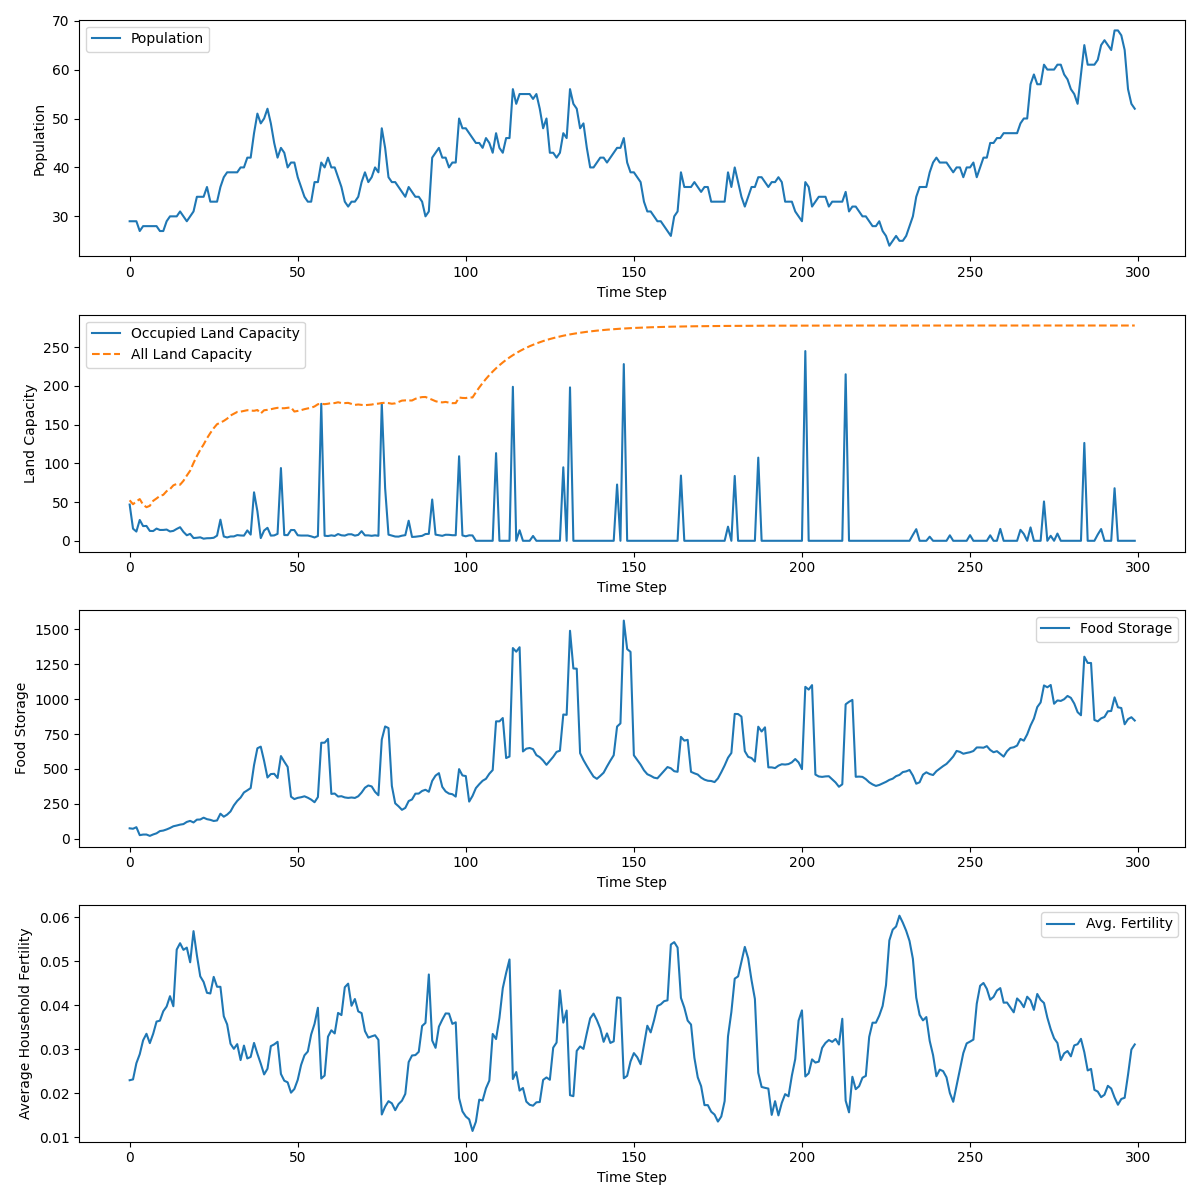
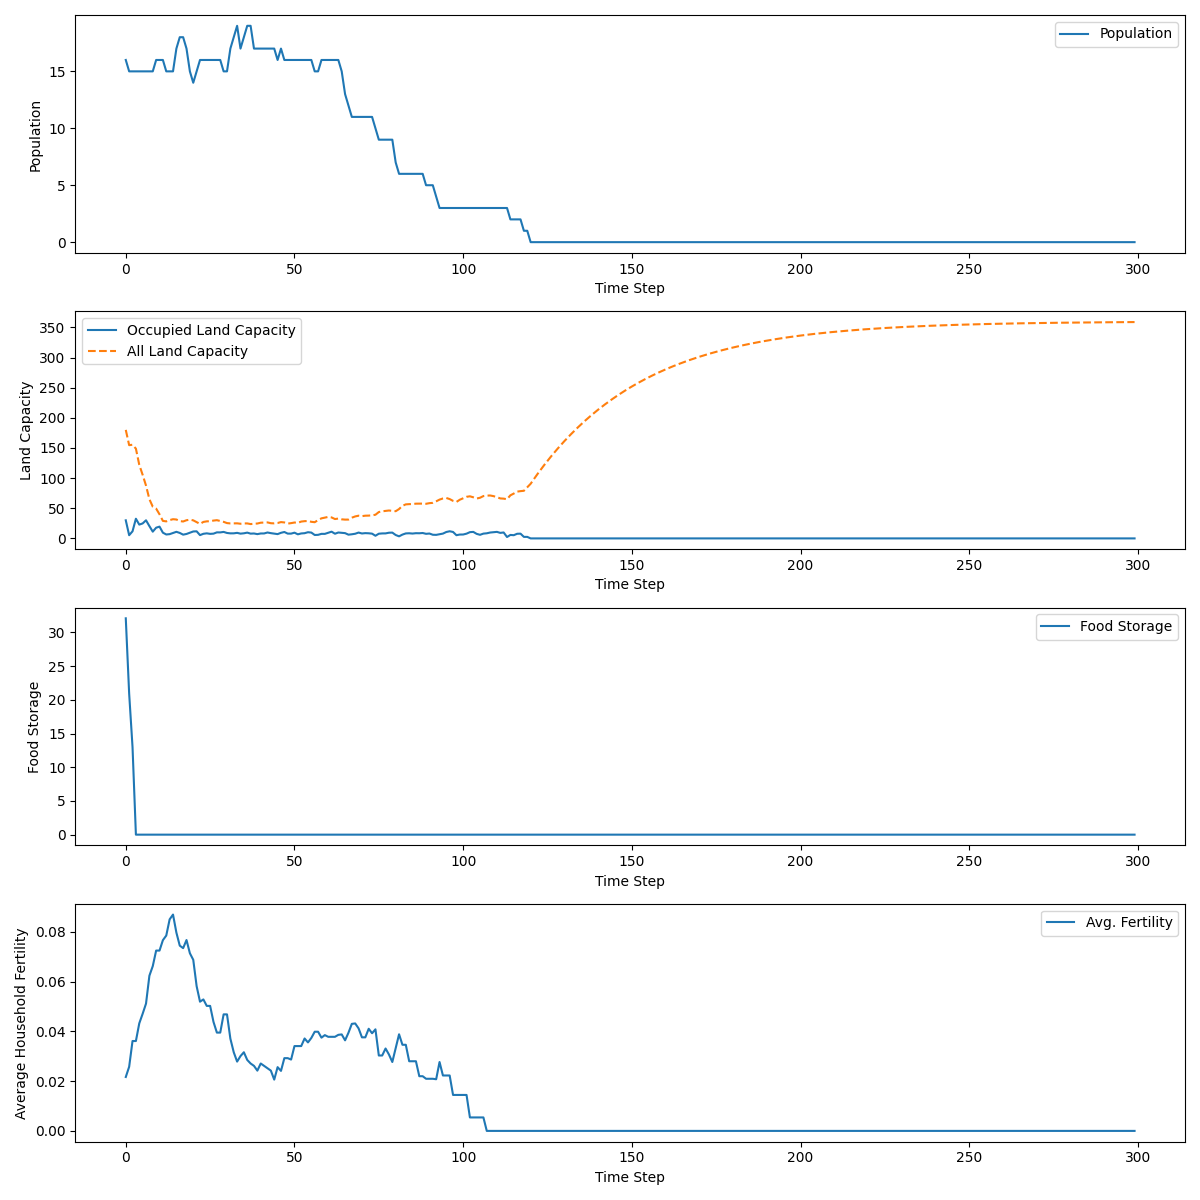
modified:   Plot.png 	modified:   __pycache__/agent.cpython-312.pyc 	modified:   __pycache__/household.cpython-312.pyc 	modified:   __pycache__/utils.cpython-312.pyc 	modified:   __pycache__/village.cpython-312.pyc 	modified:   agent.py 	modified:   household.py 	modified:   main.py 	modified:   tes

diff --git a/village.py b/village.py
@@ -47,23 +47,34 @@ class Village:
         self.luxury_goods_in_village = 50
 
 
-    def update_network_connectivity(self): 
+    def update_network_connectivity(self):
         """Updates connectivity based on trading and distance."""
-        for household_id, data in self.network.items():
+        valid_households = set(self.households)  # Precompute valid households
 
-            for other_id in self.network.keys():
-                id1 = self.get_household_by_id(household_id)
-                id2 = self.get_household_by_id(other_id)
-                if id1.location != id2.location:
-                    distance = self.get_distance(id1.location, id2.location)
-                    # print(other_id, type(other_id))
-                    # print(self.network[household_id]['connectivity'])
-                    self.network[household_id]['connectivity'][other_id] = max(0, 1/distance)
+        # Iterate over a copy of the network dictionary to avoid modifying it while iterating
+        for household_id in list(self.network.keys()):
+            if household_id in valid_households:
+                self.network[household.id]['luxury_goods'] = household.luxury_good_storage
+                household = self.get_household_by_id(household_id)
+                connectivity = self.network[household_id]['connectivity']
+
+                for other_id in list(connectivity.keys()):
+                    if other_id in valid_households:
+                        other_household = self.get_household_by_id(other_id)
+                        if household.location != other_household.location:
+                            distance = self.get_distance(household.location, other_household.location)
+                            connectivity[other_id] = max(0, 1 / distance)
+                    else:
+                        # Remove invalid connections
+                        # connectivity.pop(other_id)
+                        pass
+            else:
+                # Remove households that are no longer valid
+                # self.network.pop(household_id)
+                pass
 
                     
-        for household in self.households:
-            self.network[household.id]['luxury_goods'] = household.luxury_good_storage
-
+        
     def manage_luxury_goods(self):
         for household in self.households:
             # food_storage_needed = household.calculate_food_need()
@@ -87,13 +98,14 @@ class Village:
             
                 self.spare_food.append((max_luxury_goods, self.time))
                 print(f"Household {household.id} exchanged {max_luxury_goods} luxury good from village in year {self.time}")
-        self.luxury_goods_in_village += 1 
+        # self.luxury_goods_in_village += 1 
         # food should still be usable after trading. # pair family with the links
         # 1. check who want to trade; 2. check connectivity. 
         # similar to marriages. women married or not. widowed
         # marriage status, marriage partner. do the widowed one marry again?
         # make marriage func flexible.
         # agent moving to another house.
+        
         self.update_spare_food_expiration()
     
     def update_spare_food_expiration(self):
@@ -193,31 +205,31 @@ class Village:
                 self.land_types[household.location]['occupied'] = False
                 household.location = best_land[0]
                 self.land_types[household.location]['occupied'] = True
-                print(f"Household {household.id} migrated to {household.location}.")
+                # print(f"Household {household.id} migrated to {household.location}.")
 
     def get_distance(self, location1, location2):
         x1, y1 = map(int, location1.split(','))
         x2, y2 = map(int, location2.split(','))
         return abs(x1 - x2) + abs(y1 - y2)
     
-    def update_household(self, household):
-        """Update the household status, including reproduction and splitting."""
-        new_agents = []
+    # def update_household(self, household):
+    #     """Update the household status, including reproduction and splitting."""
+    #     new_agents = []
 
-        for agent in household.members:
-            if agent.is_alive:
-                agent.age_and_die(self, self.land_types)
-                if agent.is_alive and agent.gender == 'female' and agent.fertility > 0:
-                    if len(household.members) < 5 or self.is_land_available():
-                        new_agents.append(self.reproduce_agent(household, agent))
-                    else:
-                        print(f"Agent {agent.household_id} cannot reproduce due to lack of available land.")
-                        pass
+    #     for agent in household.members:
+    #         if agent.is_alive:
+    #             agent.age_and_die(self, self.land_types)
+    #             if agent.is_alive and agent.gender == 'female' and agent.fertility > 0:
+    #                 if len(household.members) < 5 or self.is_land_available():
+    #                     new_agents.append(self.reproduce_agent(household, agent))
+    #                 else:
+    #                     print(f"Agent {agent.household_id} cannot reproduce due to lack of available land.")
+    #                     pass
         
-        household.members.extend(new_agents)
+    #     household.members.extend(new_agents)
 
-        if len(household.members) > 5 and self.is_land_available(): # shouldn't pass till this line
-            self.split_household(household)
+    #     if len(household.members) > 5 and self.is_land_available(): # shouldn't pass till this line
+    #         self.split_household(household)
 
     def is_land_available(self):
         return any(not data['occupied'] for data in self.land_types.values())
@@ -233,25 +245,40 @@ class Village:
         # print(f"New agent born in Household {household.id}.")
         return new_agent
 
+    def remove_empty_household(self, household):
+        if household in self.households:
+            if len(household.members) == 0:
+                # print('check check', [member.id for member in household.members])
+                self.land_types[household.location]['occupied'] = False
+                self.households.remove(household)
+                # for agent in household.members:
+                #     agent.household = None
+                # household.clean_up()
+        else:
+            pass
 
     def run_simulation_step(self, vec1):
         
         """Run a single simulation step (year)."""
-        self.time += 1
-        self.update_network_connectivity()
+        
+        
         print(f"\nSimulation Year {self.time}")
         # print(self.land_types)
         for household in self.households:
             household.produce_food(self, vec1)
             household.consume_food()
+            self.remove_empty_household(household)
             self.migrate_household(household)
-            self.propose_marriage(household)
+            self.propose_marriage(household) # if choose to comment out this line, please also comment out 
+            
+            # if random.random() < fertility_probability and self.gender == 'female' and self.marital_status == 'married':
+            # if random.random() < fertility_probability and self.gender == 'female' in agent.py
 
             dead_agents = []
             newborn_agents = []
 
             for agent in household.members:
-                agent.age_and_die(self)  
+                agent.age_and_die(household,self)  
 
                 if not agent.is_alive:
                     dead_agents.append(agent)
@@ -270,15 +297,16 @@ class Village:
 
             if len(household.members) > 5:
                 household.split_household(self)
-
+            self.remove_empty_household(household)
             household.advance_step()
-        
+            
         self.update_tracking_variables()
         self.track_land_usage()
         self.update_land_capacity()        
         self.manage_luxury_goods()
         self.trading()
-        
+        self.update_network_connectivity()
+        self.time += 1
        
     
     def update_land_capacity(self):
@@ -467,12 +495,12 @@ class Village:
     def propose_marriage(self, household):
         """Handle the marriage proposals and household merging."""
         eligible_agents = [agent for agent in household.members if agent.is_alive and agent.age >= 14 and agent.age <= 50 and agent.gender == 'female' and agent.marital_status == 'single']
-        
         if not eligible_agents:
             return
         
         for agent in eligible_agents:
             potential_spouses = self.find_potential_spouses(agent)
+            household_id = agent.household_id
             agent_network = self.network[agent.household_id]
             max_connect = 0
             best_agent = None
@@ -498,8 +526,15 @@ class Village:
     def marry_agents(self, female_agent, male_agent):
         """Handle the marriage process, ensuring the female moves to the male's household."""
         female_agent.marry(male_agent)
+        print('female_agent.household_id', female_agent.household_id)
+        print('male_agent.household_id', male_agent.household_id)
+
         old_household = self.get_household_by_id(female_agent.household_id)
         new_household = self.get_household_by_id(male_agent.household_id)
+        print(male_agent.age)
+        print('check', male_agent.household_id)
+        # print(new_household.id)
+        # print(new_household.members)
 
         # women move to men's household after marriage.
         old_household.remove_member(female_agent)
@@ -507,3 +542,5 @@ class Village:
         female_agent.household_id = new_household.id
 
         print(f"Marriage: {female_agent.age} old (female) moved to {male_agent.age} old (male) household {new_household.id}.")
+    
+   

diff --git a/household.py b/household.py
@@ -1,5 +1,6 @@
 import random
 from agent import Agent
+import uuid
 # from village import Village
 class Household:
     def __init__(self, id, members, location, food_storage, luxury_good_storage):
@@ -12,6 +13,10 @@ class Household:
         self.current_step = 0
         self.food_expiration_steps = 3
         self.household_id = id
+    
+    def clean_up(self):
+        self.members.clear()  
+        self.location = None
     
     def add_food(self, amount):
         """Add food with the current step count."""
@@ -132,7 +137,7 @@ class Household:
 
             new_luxury_good_storage = self.luxury_good_storage // 2
             self.luxury_good_storage -= new_luxury_good_storage
-            new_household_id = f"{self.id}->"
+            new_household_id = str(uuid.uuid4())
             
             # Create the new household
             new_household = Household(
@@ -142,13 +147,13 @@ class Household:
                 members=new_household_members,
                 location = None
             )
-
+            for m in new_household.members:
+                m.id = new_household.id
             new_location = random.choice(empty_land_cells)
             village.land_types[new_location]['occupied'] = True
             village.land_types[new_location]['household_id'] = new_household.id
             new_household.location = new_location
 
-            # Add the new household to the village
             village.households.append(new_household)
 
             # Update the village network
@@ -158,7 +163,8 @@ class Household:
             }
 
             for other_household in village.households:
-                if other_household.location != new_household.location and other_household.id != new_household.id:
+                if other_household.id != new_household.id:
+                    # print(village.network)
                     distance = village.get_distance(new_household.location, other_household.location)
                     village.network[new_household.id]['connectivity'][other_household.id] = max(0, 1/distance)
                     village.network[other_household.id]['connectivity'][new_household.id] = max(0, 1/distance)
@@ -168,3 +174,4 @@ class Household:
         else:
             # print(f"No available land for splitting Household {self.id}. New household not created.")
             pass
+    

diff --git a/utils.py b/utils.py
@@ -5,13 +5,13 @@ from village import Village
 from agent import Vec1
 import scipy.special as sp
 import math
-
+import uuid
 
 def generate_random_agent(household_id, vec1):
 
     """Generate a random agent with basic attributes."""
     m0 = vec1.mstar * sp.gdtr(1.0 / vec1.fertscale, vec1.fertparm, 1)
-    age = random.randint(1, 30)
+    age = random.randint(1, 20)
     gender = random.choice(['male', 'female'])
     fertility = m0[age]
     return Agent(age, gender, household_id, vec1, fertility)
@@ -19,7 +19,8 @@ def generate_random_agent(household_id, vec1):
 def generate_random_household(id, num_members, location, vec1):
     """Generate a random household with a specified number of agents."""
     members = [generate_random_agent(id, vec1) for _ in range(num_members)]
-    food_storage = random.randint(1, 10)
+    # food_storage = random.randint(1, 10)
+    food_storage = 5
     luxury_good_storage = 0
     # food_storage = 0
     return Household(id, members, location, food_storage, luxury_good_storage)
@@ -30,11 +31,17 @@ def generate_random_village(num_households, num_land_cells, vec1):
     land_types = {}
     for i in range(num_land_cells):
         location = f'{i // grid_size},{i % grid_size}'
+        # land_types[location] = {
+        #     'quality': random.uniform(1,2),
+        #     'occupied': False,
+        #     'max_capacity': random.uniform(8, 10),
+        #     'recovery_rate': random.uniform(0.05, 0.7)
+        # }
         land_types[location] = {
-            'quality': random.uniform(1,2),
+            'quality': 5,
             'occupied': False,
-            'max_capacity': random.uniform(5, 10),
-            'recovery_rate': random.uniform(0.05, 0.1)
+            'max_capacity': 10,
+            'recovery_rate': 0.03
         }
 
     households = []

diff --git a/agent.py b/agent.py
@@ -59,12 +59,12 @@ class Agent:
             return work_output
         return work_output
     
-    def age_and_die(self, village):
-        from household import Household
+    def age_and_die(self, household, village):
+
         """Simulate aging, survival, and reproduction based on probabilities."""
         if not self.is_alive:
             return
-
+        
         self.age += 1
         p0 = self.vec1.pstar * sp.gdtr(1.0 / self.vec1.mortscale, self.vec1.mortparms, 1)
         m0 = self.vec1.mstar * sp.gdtr(1.0 / self.vec1.fertscale, self.vec1.fertparm, 1)
@@ -76,13 +76,16 @@ class Agent:
             partner = village.get_agent_by_id(self.partner_id)
             if partner:
                 partner.marital_status = 'single'
+                # partner.partner_id = None
             return
         
         fertility_probability = m0[age_index]
         self.fertility = fertility_probability
-        if random.random() < fertility_probability and self.gender == 'female':
+        if random.random() < fertility_probability and self.gender == 'female' and self.marital_status == 'married':
+            if len(household.members) < 5 or village.is_land_available():
+        # if random.random() < fertility_probability and self.gender == 'female':
             # print(f"Agent {self.household_id} reproduces at age {self.age}.")
-            self.reproduce()
+                self.reproduce()
     
     def reproduce(self):
         """Simulate reproduction by adding new agents to the household."""

diff --git a/main.py b/main.py
@@ -4,14 +4,15 @@ from agent import Agent
 from agent import Vec1
 import pandas as pd
 import utils
-vec1 = pd.read_csv('demog_vectors.csv')
+# vec1 = pd.read_csv('demog_vectors.csv')
 
 
 vec1_instance = Vec1()
 village = utils.generate_random_village(5, 36, vec1_instance)
 village.initialize_network()
+# print('nw', village.network)
 for _ in range(300): 
-    village.run_simulation_step(vec1)
+    village.run_simulation_step(vec1_instance)
     # utils.print_village_summary(village)
 # print(village.network)
 village.plot_simulation_results(file_name = 'Plot.png')
